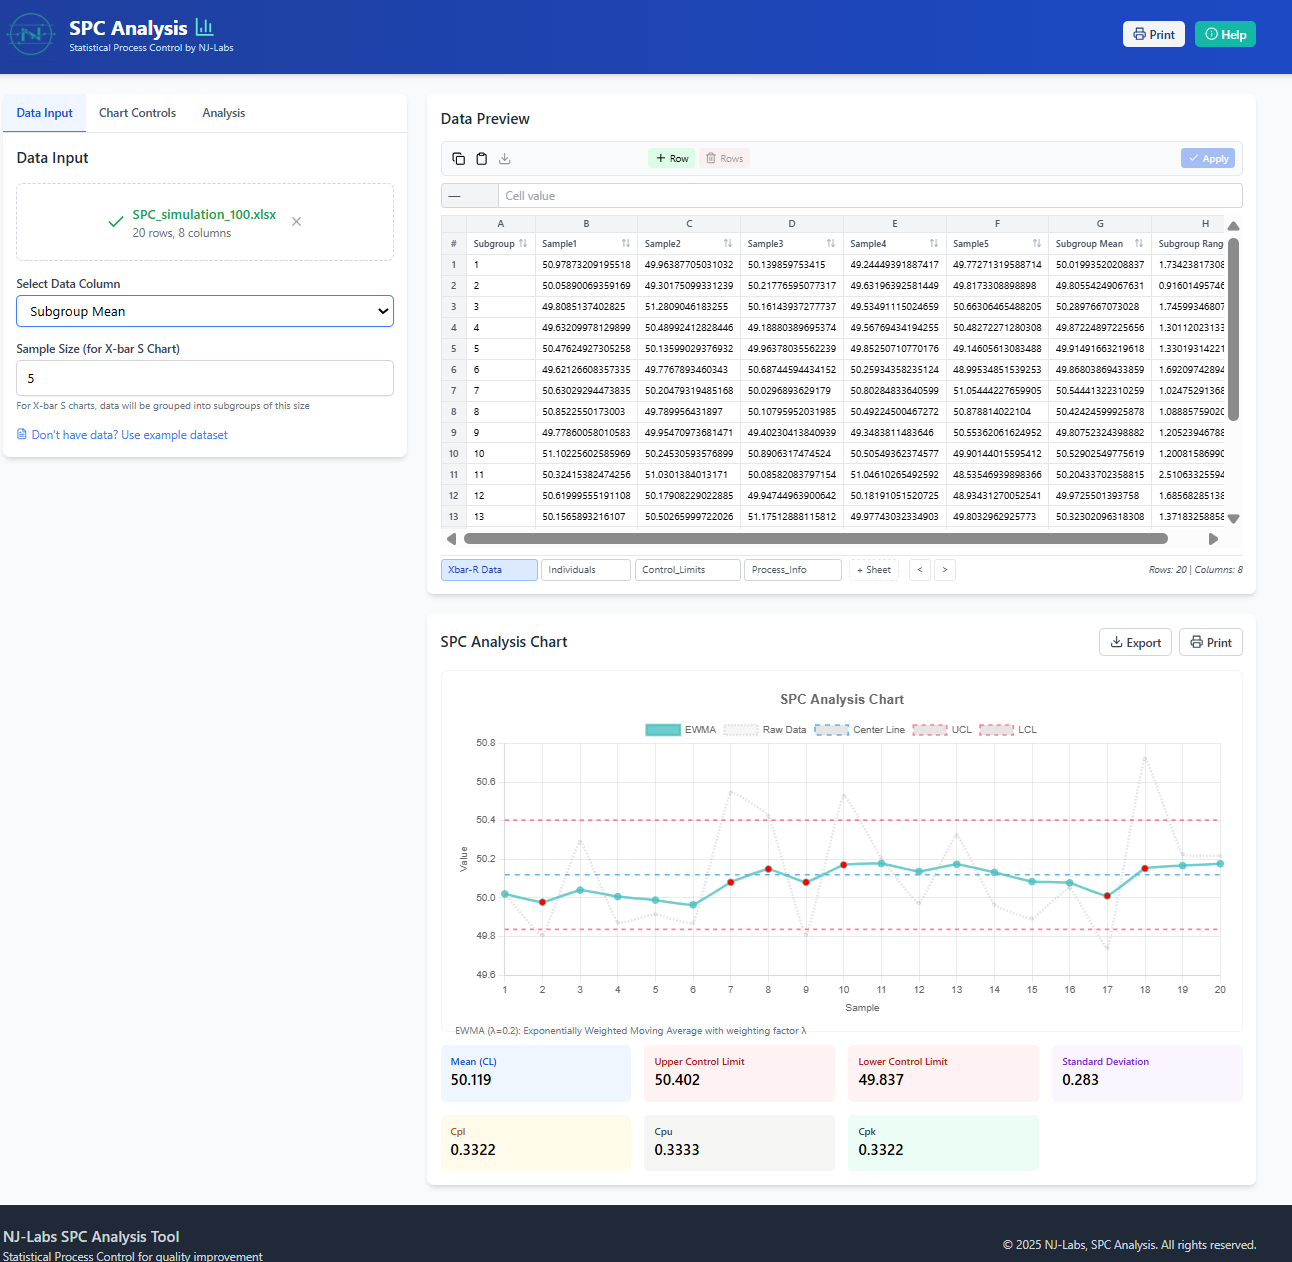
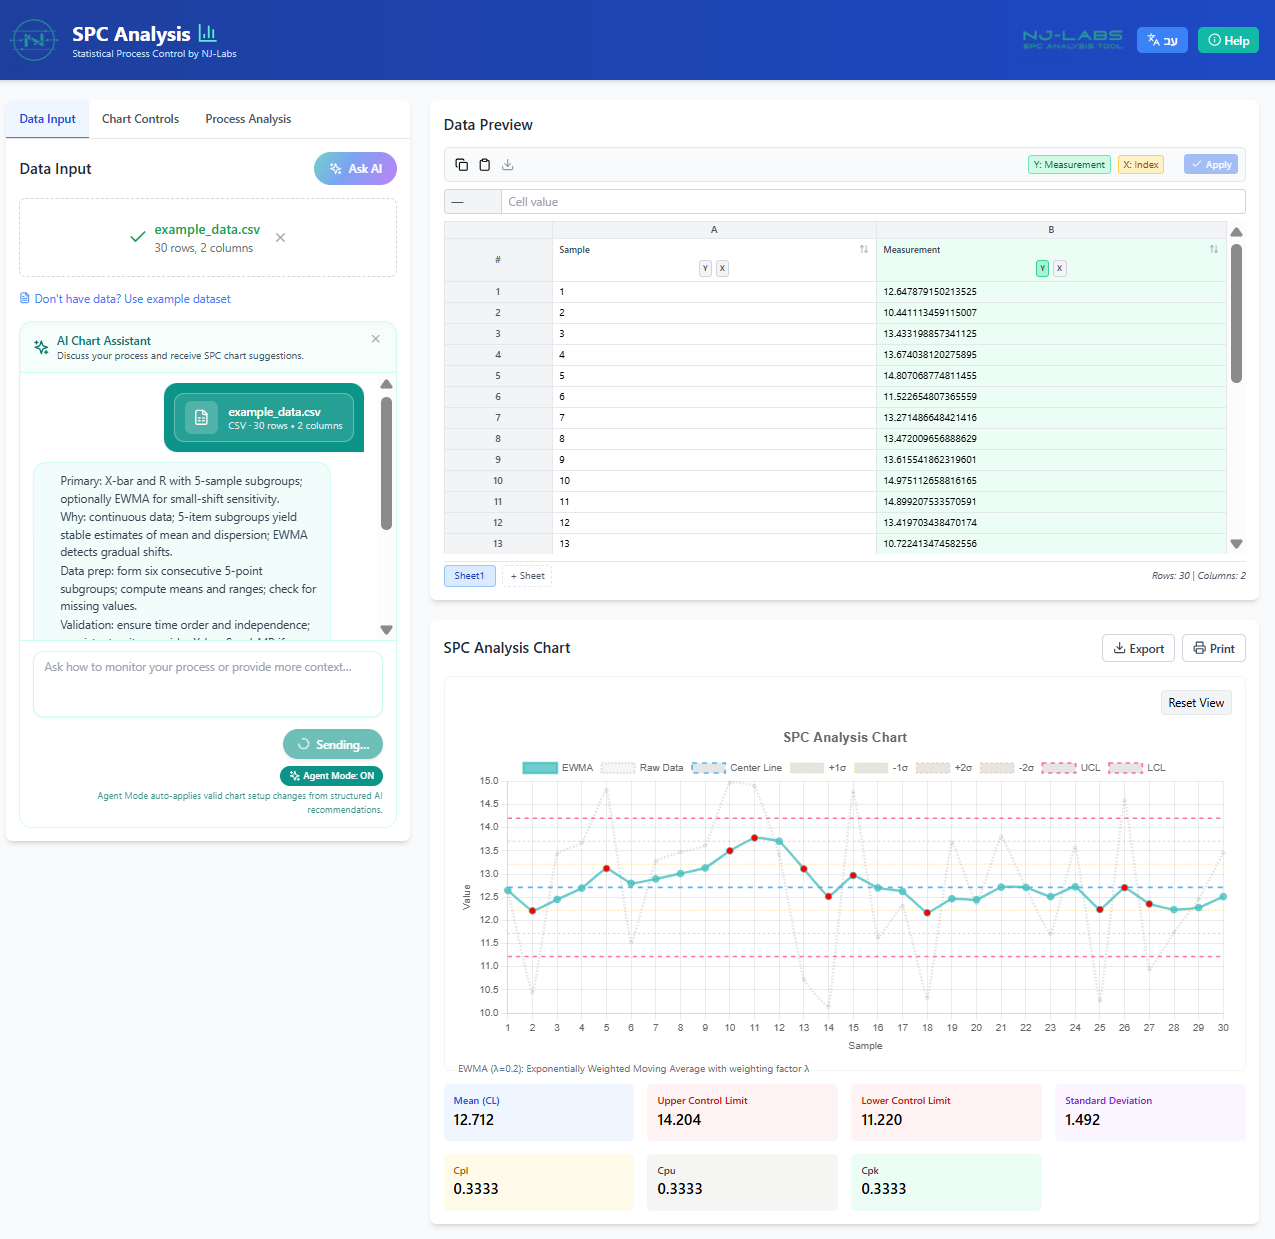
feat: add AI_PROVIDER configuration for unprefixed model IDs and update documentation

diff --git a/services/dspy-gateway/main.py b/services/dspy-gateway/main.py
@@ -26,6 +26,7 @@ MANAGED_ENV_KEYS = (
     "AI_API_URL",
     "AI_API_KEY",
     "AI_MODEL",
+    "AI_PROVIDER",
     "AI_API_BASE",
     "AI_GATEWAY_API_KEY",
     "AI_GATEWAY_PORT",
@@ -42,6 +43,23 @@ MANAGED_ENV_KEYS = (
 )
 
 DEFAULT_GATEWAY_PORT = 8001
+KNOWN_PROVIDER_PREFIXES = (
+    "openai/",
+    "azure/",
+    "anthropic/",
+    "bedrock/",
+    "cohere/",
+    "gemini/",
+    "vertex_ai/",
+    "groq/",
+    "mistral/",
+    "ollama/",
+    "together_ai/",
+    "huggingface/",
+    "replicate/",
+    "deepseek/",
+    "xai/",
+)
 
 
 def sync_managed_env_from_root() -> None:
@@ -131,7 +149,7 @@ class DSPyGateway:
         self._model_name: str | None = None
         self._api_base: str | None = None
         self._env_mtime: float | None = None
-        self._active_config: tuple[str, str | None, str] | None = None
+        self._active_config: tuple[str, str | None, str, str | None] | None = None
 
     @staticmethod
     def _safe_api_base(api_base: str | None) -> str:
@@ -141,6 +159,32 @@ class DSPyGateway:
         if not parsed.scheme or not parsed.netloc:
             return api_base
         return f"{parsed.scheme}://{parsed.netloc}"
+
+    @staticmethod
+    def _resolve_litellm_target(model_name: str, api_base: str | None) -> tuple[str, str | None]:
+        normalized = model_name.strip()
+        if not normalized:
+            return normalized, None
+
+        lowered = normalized.lower()
+        if lowered.startswith(KNOWN_PROVIDER_PREFIXES):
+            return normalized, None
+
+        provider = env_first("AI_PROVIDER")
+        if provider:
+            return normalized, provider.strip().lower()
+
+        # For custom OpenAI-compatible endpoints (vLLM, llama.cpp server, etc.),
+        # require explicit provider when model id does not include it.
+        if api_base:
+            raise RuntimeError(
+                "Missing AI_PROVIDER for AI_API_BASE with unprefixed AI_MODEL. "
+                "If the served model ID does NOT contain the provider name "
+                "(e.g: \"openai/<MODEL_ID>\") add the provider name in "
+                "\"AI_PROVIDER\"; otherwise leave AI_PROVIDER empty."
+            )
+
+        return normalized, None
 
     def _reload_env_if_changed(self) -> None:
         try:
@@ -165,6 +209,7 @@ class DSPyGateway:
         api_key = env_first("AI_API_KEY", "DSPY_API_KEY", "OPENAI_API_KEY", "VITE_AI_API_KEY")
         model_name = env_first("AI_MODEL", "VITE_AI_MODEL")
         api_base = env_first("AI_API_BASE", "DSPY_API_BASE")
+        litellm_model_name, custom_llm_provider = self._resolve_litellm_target(model_name or "", api_base)
         temperature = float(os.getenv("DSPY_TEMPERATURE", "0"))
         max_tokens = int(os.getenv("DSPY_MAX_TOKENS", "220"))
         timeout_seconds = float(os.getenv("DSPY_TIMEOUT_SECONDS", "20"))
@@ -181,6 +226,8 @@ class DSPyGateway:
             lm_kwargs["api_key"] = api_key
         if api_base:
             lm_kwargs["api_base"] = api_base
+        if custom_llm_provider:
+            lm_kwargs["custom_llm_provider"] = custom_llm_provider
 
         if not model_name:
             raise RuntimeError(
@@ -194,11 +241,11 @@ class DSPyGateway:
                 "Set it in project root .env before calling /v1/chat/completions."
             )
 
-        current_config = (model_name, api_base, api_key)
+        current_config = (model_name, api_base, api_key, custom_llm_provider)
         if self._predictor is not None and self._active_config == current_config:
             return
 
-        lm = dspy.LM(model_name, **lm_kwargs)
+        lm = dspy.LM(litellm_model_name, **lm_kwargs)
         dspy.configure(lm=lm)
         self._predictor = dspy.Predict(SPCConciseAdvice)
         self._model_name = model_name
@@ -363,12 +410,15 @@ def health_ready() -> dict[str, object]:
 
     model_name = env_first("AI_MODEL", "VITE_AI_MODEL") or ""
     api_base = env_first("AI_API_BASE", "DSPY_API_BASE") or ""
+    provider = env_first("AI_PROVIDER") or ""
     has_api_key = bool(env_first("AI_API_KEY", "DSPY_API_KEY", "OPENAI_API_KEY", "VITE_AI_API_KEY"))
 
     if not model_name.strip():
         return {"ready": False, "reason": "Missing AI_MODEL", "model_source": "AI_MODEL"}
     if not has_api_key:
         return {"ready": False, "reason": "Missing AI_API_KEY", "model_source": "AI_MODEL"}
+    if api_base.strip() and not model_name.strip().lower().startswith(KNOWN_PROVIDER_PREFIXES) and not provider.strip():
+        return {"ready": False, "reason": "Missing AI_PROVIDER for AI_API_BASE with unprefixed AI_MODEL", "model_source": "AI_MODEL"}
     if not api_base.strip():
         return {"ready": True, "model": model_name, "api_base": "(provider default)", "model_source": "AI_MODEL"}
 
@@ -416,7 +466,7 @@ def chat_completions(
         content = gateway.answer(payload.messages)
     except Exception as exc:  # pragma: no cover
         detail = str(exc) or "DSPy inference failed"
-        if "Missing AI_API_KEY" in detail or "Missing AI_MODEL" in detail:
+        if "Missing AI_API_KEY" in detail or "Missing AI_MODEL" in detail or "Missing AI_PROVIDER" in detail:
             raise HTTPException(status_code=503, detail=detail) from exc
         connectivity_markers = (
             "Connection error",

diff --git a/services/dspy-gateway/README.md b/services/dspy-gateway/README.md
@@ -26,6 +26,7 @@ python -m venv .venv
 pip install -r requirements.txt
 # Edit project root .env and set AI_API_URL / AI_API_KEY / AI_MODEL
 # Optional: AI_API_BASE (custom upstream URL), AI_GATEWAY_PORT (default: 8001)
+# If AI_MODEL is not provider-prefixed (for example openai/<MODEL_ID>), set AI_PROVIDER.
 python main.py
 ```
 
@@ -52,3 +53,7 @@ window.APP_CONFIG = {
 - The gateway enforces `LITELLM_LOCAL_MODEL_COST_MAP=true` at startup, so LiteLLM uses bundled local metadata without remote fetch.
 - `GET /health/ready` validates model/key config and basic upstream host reachability for `AI_API_BASE`.
 - Changes to root `.env` are reloaded automatically on the next request (no gateway restart required).
+- For OpenAI-compatible self-hosted endpoints (for example vLLM), set `AI_API_BASE` to your server base (typically ending with `/v1`).
+- If `AI_MODEL` is not provider-prefixed, set `AI_PROVIDER` (for example `openai`) so LiteLLM can resolve the backend correctly.
+- `AI_PROVIDER` is used only for LiteLLM routing. The model sent upstream remains the raw `AI_MODEL` unless you explicitly prefix `AI_MODEL`.
+- A `GET /` returning `404` from the upstream model server is usually harmless (many OpenAI-compatible servers only expose `/v1/*`).

diff --git a/README.md b/README.md
@@ -98,6 +98,7 @@ This repo includes a lightweight DSPy service at `services/dspy-gateway` that en
 
   Set these in `.env`: `AI_API_URL`, `AI_API_KEY`, and `AI_MODEL`.
   Optional: `AI_API_BASE` (custom upstream base URL) and `AI_GATEWAY_PORT` (default `8001`).
+  If `AI_MODEL` is not provider-prefixed (for example `openai/<MODEL_ID>`), set `AI_PROVIDER`.
 
 The gateway exposes an OpenAI-compatible endpoint (`/v1/chat/completions`) so the existing UI works unchanged, while DSPy controls output style for more predictable, concise responses.
 

diff --git a/SETUP.md b/SETUP.md
@@ -201,6 +201,7 @@ python -m venv .venv
 pip install -r requirements.txt
 # Edit root .env and set AI_API_URL / AI_API_KEY / AI_MODEL
 # Optional: AI_API_BASE (custom upstream URL), AI_GATEWAY_PORT (default: 8001)
+# If AI_MODEL is not provider-prefixed (e.g. openai/<MODEL_ID>), set AI_PROVIDER.
 python main.py
 ```
 
